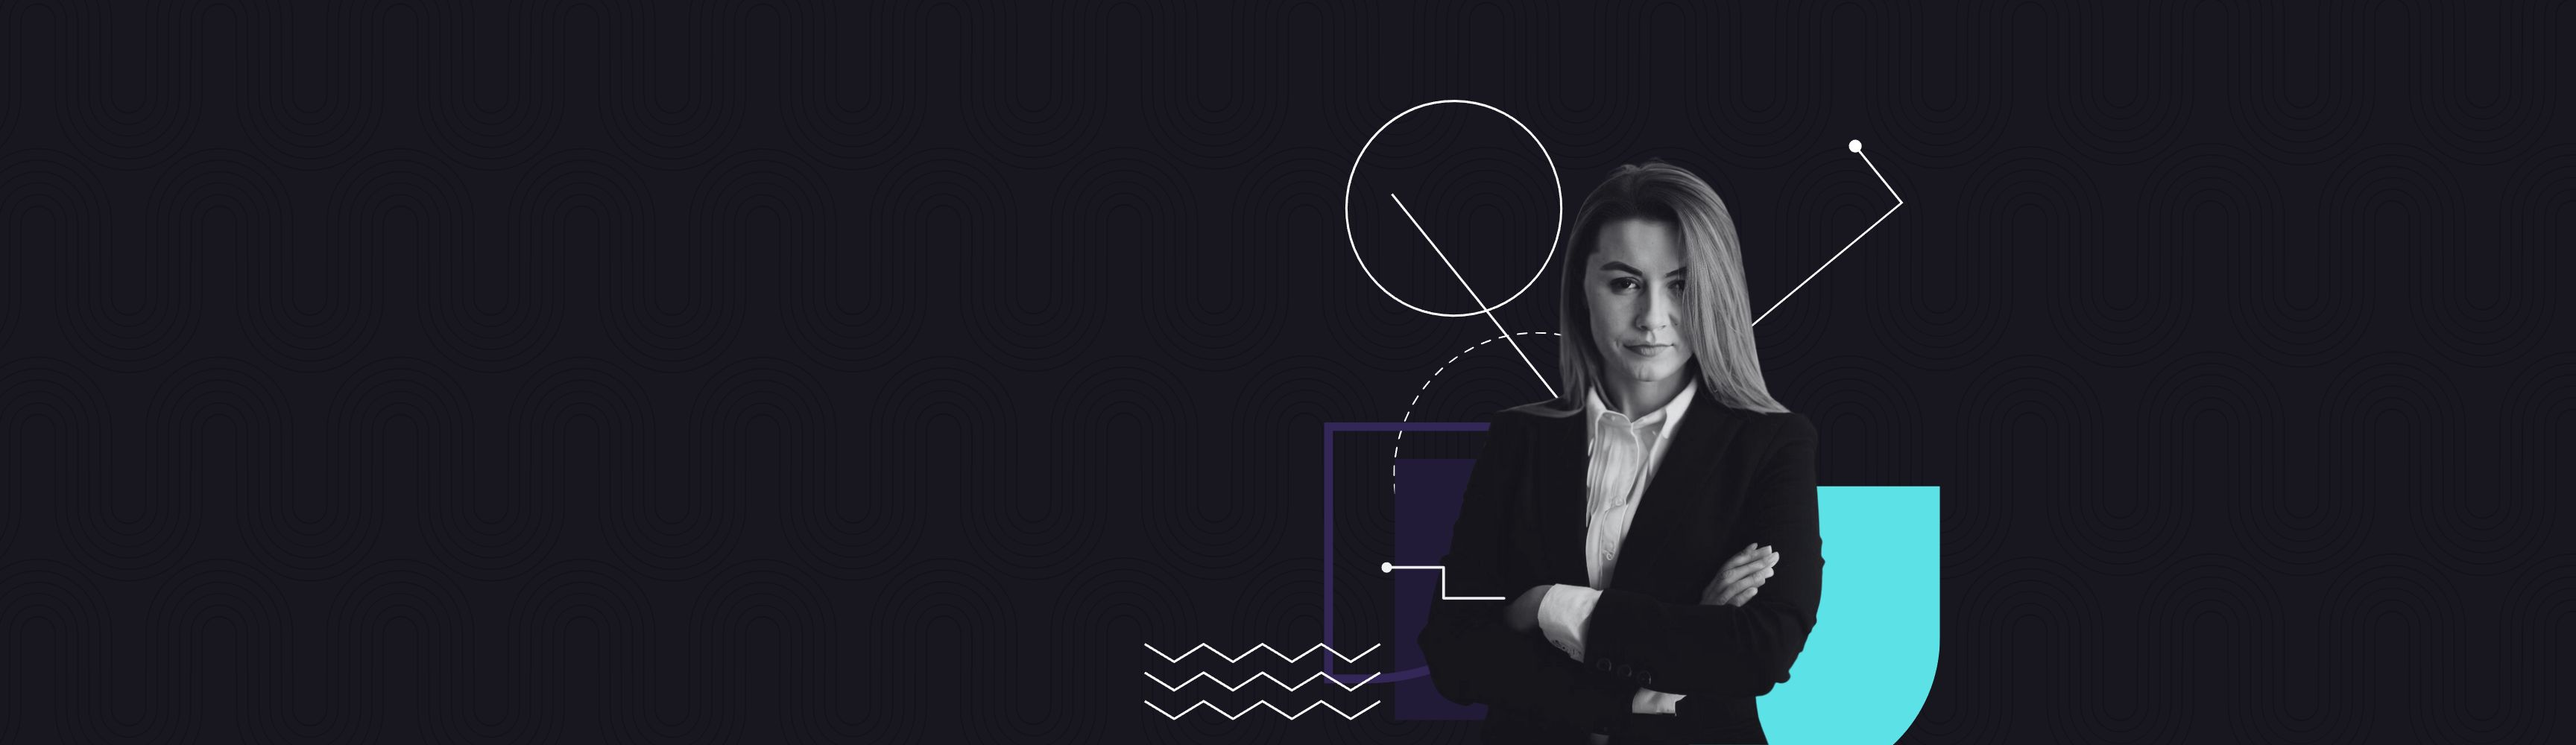
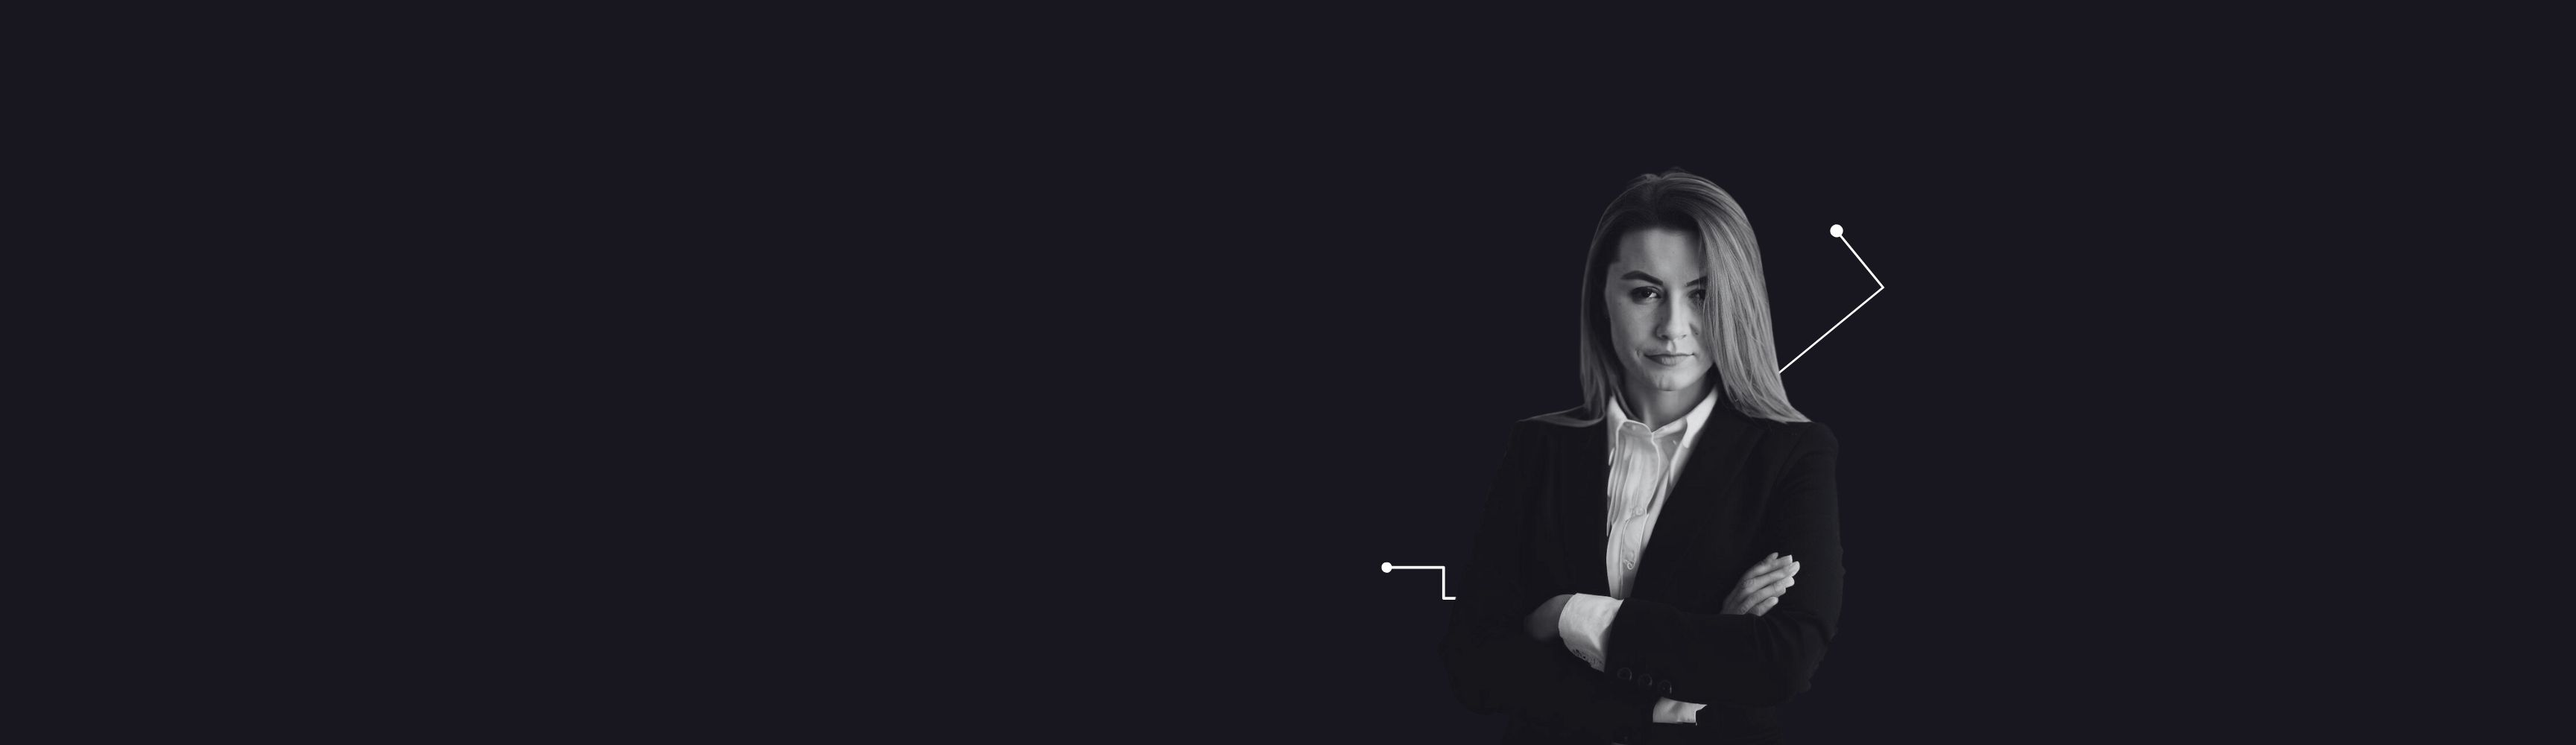
update darkmode

Changed region(s): [[0.4375, 0.248, 0.7812, 1.0], [0.625, 0.217, 0.6562, 0.248], [0.5625, 0.93, 0.5938, 0.961]]

diff --git a/styles.css b/styles.css
@@ -22,6 +22,22 @@
         /* suas outras variáveis */
 }
 
+/**/
+/* final dos estilos*/
+
+*, *::before, *::after {
+    box-sizing: border-box;
+    margin: 0;
+    padding: 0;
+}
+
+body {
+    font-size: 14px;
+    font-family: 'Maven Pro', sans-serif;
+    background-color: rgba(245, 247, 255, 0.726);
+}
+
+
 .bg-light {
     background-color: var(--bg-light);
 }
@@ -136,20 +152,6 @@ li { list-style: none; }
     background-color: transparent;
 }
 
-/**/
-/* final dos estilos*/
-
-*, *::before, *::after {
-    box-sizing: border-box;
-    margin: 0;
-    padding: 0;
-}
-
-body {
-    font-size: 14px;
-    font-family: 'Maven Pro', sans-serif;
-    background-color: rgb(245, 247, 255);
-}
 
 /* início do menu do header */
 .header {
@@ -534,7 +536,7 @@ hr { border-color: transparent; }
 }
 /**/
 /* quinta section: segundo botão de registro */
-#sct-5 { background: #dbe9ff; }
+#sct-5 { background: #e8eeff; }
 
 #sct-5 p {
     color: var(--clearText);
@@ -611,7 +613,7 @@ hr { border-color: transparent; }
 }
 
 #chk {
-    /* display: none; */
+    display: none;
 }
 
 #chk:checked ~ .switch {

diff --git a/index.html b/index.html
@@ -21,8 +21,8 @@
 		<header class="header">
 			<div class="container container-fluid">
 				<div class="logo">
-					<a class="logo-title" href="https://advable-mvp.herokuapp.com/">advable</a>
-					<a href="https://advable-mvp.herokuapp.com/"><img class="logo-img" src="./imagens/logotipo.png" alt=""></a>
+					<a class="logo-title" href="index.html">advable</a>
+					<a href="index.html"><img class="logo-img" src="./imagens/logotipo.png" alt=""></a>
 				</div>
 
 				<div class="navigation">
@@ -273,8 +273,8 @@
 
 				<p>Todos os direitos reservados.</p>
 				
-				<button class="theme-btn" onclick="toggleTheme()">
-					<input type="checkbox" id="chk" class="theme-checkbox">
+				<button class="theme-btn">
+					<input type="checkbox" id="chk">
 					<label for="chk" class="switch">
 						<span class="slider"></span>
 					</label>

diff --git a/script.js b/script.js
@@ -4,6 +4,12 @@ function toggleTheme() {
   body.classList.toggle('dark');
 }
 
+var checkbox = document.querySelector('#chk');
+
+checkbox.addEventListener('change', function() {
+  toggleTheme();
+});
+
 // rolagem do menu
 window.addEventListener('scroll', function() {
   let header = document.querySelector('.header');
